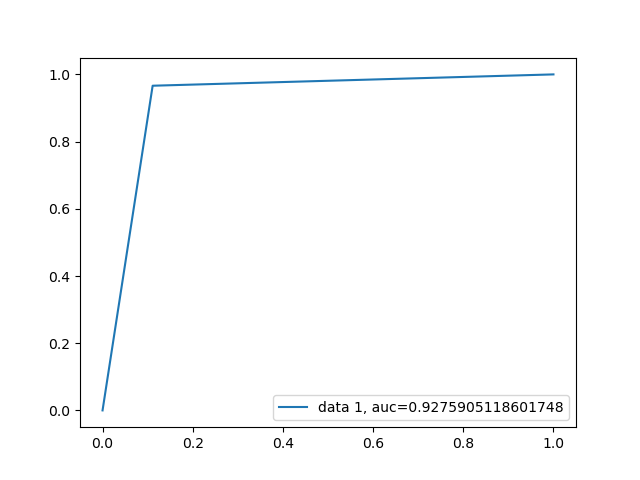
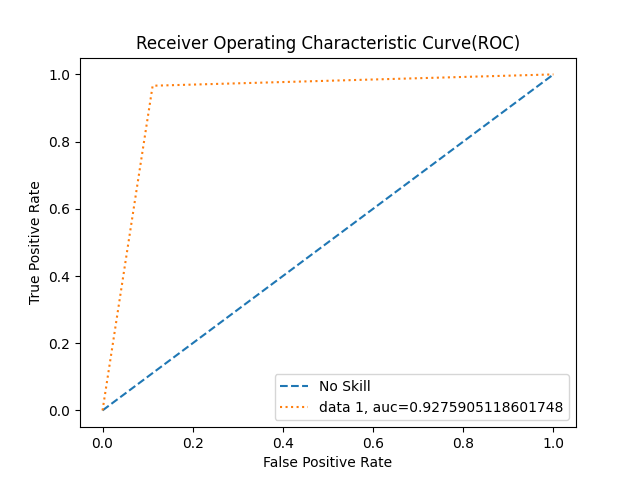
accuracy function defined

diff --git a/breast_cancer_classification.py b/breast_cancer_classification.py
@@ -1,6 +1,7 @@
 import numpy as np
 import pandas as pd
 import matplotlib.pyplot as plt
+import seaborn as sns
 from sklearn.datasets import load_breast_cancer
 from sklearn.model_selection import train_test_split
 from sklearn.model_selection import cross_val_score
@@ -22,136 +23,92 @@ target = breast_cancer["target"]
 df = pd.DataFrame(features, columns=breast_cancer.feature_names)
 df["target"] = target
 
+
 X_train, X_test, y_train, y_test = train_test_split(features, target, test_size = 0.25, random_state = 123)
+
+def print_accuracy_result(name, y_pred):
+    print(name, "score: \n{}".format(accuracy_score(y_pred, y_test)))
+    print(name, "Confusion Matrix: \n{}".format(confusion_matrix(y_pred, y_test)))
+    print(name, "Classification Report:\n{}".format(classification_report(y_pred, y_test)))
+
 
 knn = KNeighborsClassifier(n_neighbors=1)
 knn.fit(X_train, y_train)
 y_pred_knn = knn.predict(X_test)
-print(knn.predict_proba(X_test))
-
-print("_" * 70)
-print("KNeighbors Classifier Accuracy : \n{}".format(accuracy_score(y_pred_knn, y_test)))
-print("KNeighbors Classifier Confusion Matrix : \n{}".format(confusion_matrix(y_pred_knn, y_test)))
-print("KNeighbors Classifier Classification Report : \n{}".format(classification_report(y_pred_knn, y_test)))
-print("KNeighbors Classifier roc_auc_score : \n{}".format(roc_auc_score(y_pred_knn, y_test)))
-print("KNeighbors Classifier roc_curve : \n{}".format(roc_curve
-(y_pred_knn, y_test)))
-
-# plot roc curve
-y_pred_proba = knn.predict_proba(X_test)[::,1]
-fpr, tpr, _ = roc_curve(y_test,  y_pred_proba)
-auc = roc_auc_score(y_test, y_pred_proba)
-plt.plot(fpr,tpr,label="data 1, auc="+str(auc))
-plt.legend(loc=4)
-plt.savefig("breast_cancer_knn.png")
-
+print_accuracy_result("KNeighbors Classifier", y_pred_knn)
 
 logreg = LogisticRegression()
 logreg.fit(X_train, y_train)
 y_pred_logreg = logreg.predict(X_test)
-print("_" * 70)
-print("Logistic Regression score: \n{}".format(accuracy_score(y_pred_logreg, y_test)))
-print("Logistic Regression Confusion Matrix: \n{}".format(confusion_matrix(y_pred_logreg, y_test)))
-print("Logistic Regression Classification Report:\n{}".format(classification_report(y_pred_logreg, y_test)))
-
-
-# plot roc curve
-y_pred_proba = logreg.predict_proba(X_test)[::,1]
-fpr, tpr, _ = roc_curve(y_test,  y_pred_proba)
-auc = roc_auc_score(y_test, y_pred_proba)
-plt.plot(fpr,tpr,label="data 1, auc="+str(auc))
-plt.legend(loc=4)
-plt.savefig("breast_cancer_logreg.png")
-
+print_accuracy_result("Logistic Regression",  y_pred_logreg)
 
 tree = DecisionTreeClassifier()
 tree.fit(X_train, y_train)
 y_pred_tree = tree.predict(X_test)
-print("_" * 70)
-print("Decision Tree Accuracy : \n{}".format(accuracy_score(y_pred_tree, y_test)))
-print("Decision Tree Confusion Matrix : \n{}".format(confusion_matrix(y_pred_tree, y_test)))
-print("Decision Tree Classification Report : \n{}".format(classification_report(y_pred_tree, y_test)))
-
-
-#plot roc curve
-y_pred_proba = tree.predict_proba(X_test)[::,1]
-fpr, tpr, _ = roc_curve(y_test,  y_pred_proba)
-auc = roc_auc_score(y_test, y_pred_proba)
-plt.plot(fpr,tpr,label="data 1, auc="+str(auc))
-plt.legend(loc=4)
-plt.savefig("breast_cancer_tree.png")
-
+print_accuracy_result("Decision Tree", y_pred_tree)
 
 rand = RandomForestClassifier(n_estimators=500)
 rand.fit(X_train, y_train)
 y_pred_rand = rand.predict(X_test)
-print("_" * 70)
-print("Random Forest Accuracy : \n{}".format(accuracy_score(y_pred_rand, y_test)))
-print("Random Forest Confusion Matrix : \n{}".format(confusion_matrix(y_pred_rand, y_test)))
-print("Random Forest Classification Report : \n{}".format(classification_report(y_pred_rand, y_test)))
-
-#plot roc curve
-y_pred_proba = rand.predict_proba(X_test)[::,1]
-fpr, tpr, _ = roc_curve(y_test,  y_pred_proba)
-print(fpr, tpr, _)
-auc = roc_auc_score(y_test, y_pred_proba)
-plt.plot(fpr,tpr,label="data 1, auc="+str(auc))
-plt.legend(loc=4)
-plt.savefig("breast_cancer_rand.png")
-
-
+print_accuracy_result("Random Forest", y_pred_rand)
 
 ada = AdaBoostClassifier()
 ada.fit(X_train, y_train)
 y_pred_ada = ada.predict(X_test)
-print("_" * 70)
-print("AdaBoost Classifier Accuracy : \n{}".format(accuracy_score(y_pred_ada, y_test)))
-print("AdaBoost Classifier Confusion Matrix : \n{}".format(confusion_matrix(y_pred_ada, y_test)))
-print("AdaBoost Classifier Classification Report : \n{}".format(classification_report(y_pred_ada, y_test)))
-
-# plot roc curve
-y_pred_proba = ada.predict_proba(X_test)[::,1]
-fpr, tpr, _ = roc_curve(y_test,  y_pred_proba)
-auc = roc_auc_score(y_test, y_pred_proba)
-plt.plot(fpr,tpr,label="data 1, auc="+str(auc))
-plt.legend(loc=4)
-plt.savefig("breast_cancer_ada.png")
+print_accuracy_result("AdaBoost Classifier", y_pred_ada)
 
 grad = GradientBoostingClassifier()
 grad.fit(X_train, y_train)
 y_pred_grad = grad.predict(X_test)
-
-print("_" * 70)
-print("Gradient Boosting Accuracy : \n{}".format(accuracy_score(y_pred_grad, y_test)))
-print("Gradient Boosting Confusion Matrix : \n{}".format(confusion_matrix(y_pred_grad, y_test)))
-print("Gradient Boosting Classification Report : \n{}".format(classification_report(y_pred_grad, y_test)))
-
-# plot roc curve
-y_pred_proba = grad.predict_proba(X_test)[::,1]
-fpr, tpr, _ = roc_curve(y_test,  y_pred_proba)
-auc = roc_auc_score(y_test, y_pred_proba)
-plt.plot(fpr,tpr,label="data 1, auc="+str(auc))
-plt.legend(loc=4)
-plt.savefig("breast_cancer_grad.png")
+print_accuracy_result("Gradient Boosting", y_pred_grad)
 
 svc = SVC()
 svc.fit(X_train, y_train)
 y_pred_svc = grad.predict(X_test)
-print("_" * 70)
-print("SVC Accuracy : \n{}".format(accuracy_score(y_pred_svc, y_test)))
-print("SVC Confusion Matrix : \n{}".format(confusion_matrix(y_pred_svc, y_test)))
-print("SVC Classification Report : \n{}".format(classification_report(y_pred_svc, y_test)))
-
+print_accuracy_result("SVC", y_pred_svc)
 
 lin_svc = LinearSVC()
 lin_svc.fit(X_train, y_train)
 y_pred_linsvc = grad.predict(X_test)
-print("_" * 70)
-print("Linear SVC Accuracy : \n{}".format(accuracy_score(y_pred_linsvc, y_test)))
-print("Linear SVC Confusion Matrix : \n{}".format(confusion_matrix(y_pred_linsvc, y_test)))
-print("Linear SVC Classification Report : \n{}".format(classification_report(y_pred_linsvc, y_test)))
+print_accuracy_result("Linear SVC", y_pred_linsvc)
+
+mods = [knn, logreg, tree, rand, ada, grad, svc, lin_svc]
+mod_names = ['knn', 'logreg', 'tree', 'rand', 'ada', 'grad', 'svc', 'lin_svc']
+y_preds = [y_pred_knn, y_pred_logreg, y_pred_tree, y_pred_rand, y_pred_ada, y_pred_grad, y_pred_svc, y_pred_linsvc]
+
+#plot cf_matrix
+def cf_matrix(model_name, y_pred):
+    plt.figure()
+    cf_m = confusion_matrix(y_pred, y_test)
+    sns.heatmap(cf_m, annot=True)
+    plt.xlabel("predicted_label")
+    plt.ylabel("True_label")
+    plt.savefig("breast_cancer_cf_{}.png".format(model_name))
+    
+
+# plot roc curve
+def auc_roc(model, model_name):
+    plt.figure()
+    y_pred_proba = model.predict_proba(X_test)[::,1]
+    fpr, tpr, _ = roc_curve(y_test,  y_pred_proba)
+    auc = roc_auc_score(y_test, y_pred_proba)
+    
+    ns_probs = [0 for _ in range(len(y_test))]
+    ns_auc = roc_auc_score(y_test, ns_probs)
+    ns_fpr, ns_tpr, _ = roc_curve(y_test, ns_probs)
+    plt.plot(ns_fpr, ns_tpr, linestyle='--', label='No Skill')
+    plt.plot(fpr,tpr, linestyle='dotted', label="data 1, auc="+str(auc))
+    plt.legend(loc=4)
+    plt.title("Receiver Operating Characteristic Curve(ROC)")
+    plt.xlabel("False Positive Rate")
+    plt.ylabel("True Positive Rate")
+    plt.savefig("breast_cancer_{}.png".format(model_name))
 
 
+for i in range(len(mods)):
+    cf_matrix(mod_names[i],y_preds[i])
 
+for i in range(len(mods)-2):
+    auc_roc(mods[i], mod_names[i])
 
 
